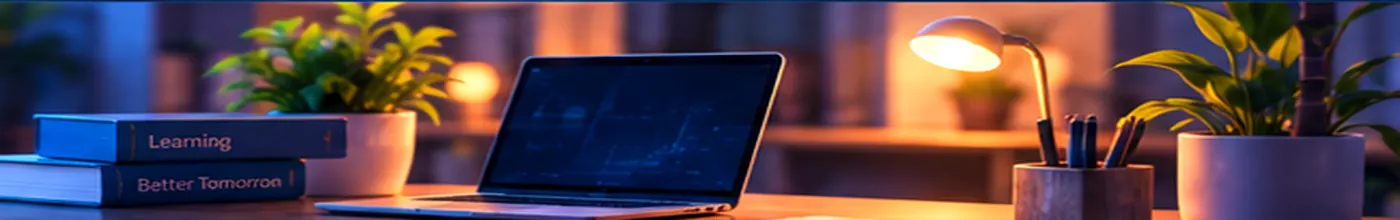
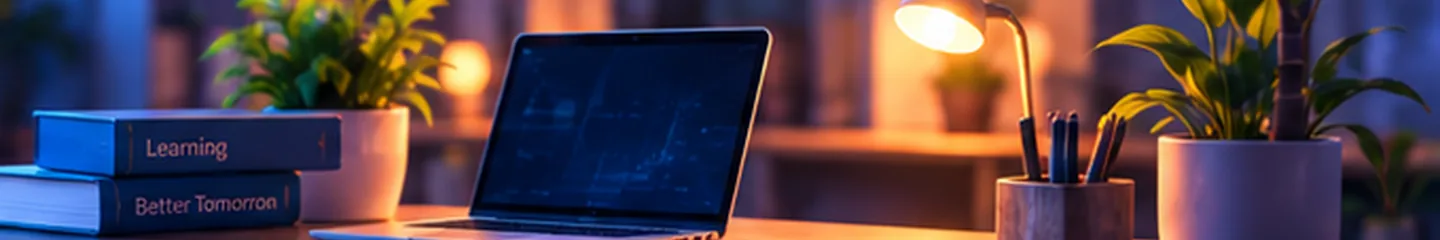
Add files via upload

diff --git a/src/js/screens/classRoom.js b/src/js/screens/classRoom.js
@@ -1181,8 +1181,8 @@ function requestsHtml(data) {
 const CLASS_APPEARANCE_META = Object.freeze({
   ROOM_DESKTOP:{label:'Hero Room Class — Desktop',size:'2048 × 384 px',ratio:'5.33 : 1',maxEdge:2048},
   ROOM_MOBILE:{label:'Hero Room Class — Mobile',size:'1440 × 320 px',ratio:'4.50 : 1',maxEdge:1440},
-  LANDING_DESKTOP:{label:'Hero Landing — Desktop',size:'2048 × 384 px',ratio:'5.33 : 1',maxEdge:2048},
-  LANDING_MOBILE:{label:'Hero Landing — Mobile',size:'1440 × 320 px',ratio:'4.50 : 1',maxEdge:1440}
+  LANDING_DESKTOP:{label:'Hero Utama Landing — Desktop',size:'2048 × 384 px',ratio:'5.33 : 1',maxEdge:2048},
+  LANDING_MOBILE:{label:'Hero Utama Landing — Mobile',size:'1440 × 320 px',ratio:'4.50 : 1',maxEdge:1440}
 });
 function classAppearanceUrl(data,slot,fallback=''){
   return data?.appearance?.active?.[slot]?.url || fallback;
@@ -1211,17 +1211,66 @@ function classAppearanceLibraryHtml(data){
     return `<article class="appearance-library-card ${item.active?'is-active':''}"><img src="${esc(item.url)}" alt="${esc(meta.label)}" loading="lazy"><div><strong>${esc(meta.label)}</strong><small>${esc(item.filename||'Gambar kelas')} · ${item.created_at?esc(new Date(item.created_at).toLocaleDateString('id-ID')):''}</small></div><button type="button" class="btn ${item.active?'btn-primary':'btn-secondary'} small-btn" data-appearance-use="${esc(item.media_id)}" data-appearance-slot="${esc(item.slot)}" ${item.active?'disabled':''}>${item.active?'Aktif':'Gunakan'}</button></article>`;
   }).join('')}</div>`;
 }
+let appearanceOpenCategory='';
+const LANDING_BUILTIN_ASSETS=Object.freeze([
+  {key:'access',label:'Informasi / Akses Kelas',src:'assets/public/hero-access.webp?v=6726',size:'1440 × 240 px',state:'AKTIF DI LANDING'},
+  {key:'links',label:'Link Cepat',src:'assets/public/hero-links.webp?v=6726',size:'1440 × 240 px',state:'AKTIF DI LANDING'},
+  {key:'showcase',label:'Kenal KelasKu',src:'assets/public/hero-showcase.webp?v=6726',size:'1440 × 240 px',state:'AKTIF DI LANDING'},
+  {key:'campus-desktop',label:'Kampus / Lapangan — Desktop',src:'assets/public/campus-landscape-desktop.png?v=6726',size:'2048 × 220 px',state:'ASSET BAWAAN'},
+  {key:'campus-mobile',label:'Kampus / Lapangan — Mobile',src:'assets/public/campus-landscape-mobile.png?v=6726',size:'1200 × 300 px',state:'ASSET BAWAAN'}
+]);
+function appearanceCategorySummary(key,data){
+  if(key==='room'){
+    const count=['ROOM_DESKTOP','ROOM_MOBILE'].filter(slot=>data?.appearance?.active?.[slot]).length;
+    return count?`${count}/2 custom`:'Default KelasKu';
+  }
+  if(key==='landing'){
+    const count=['LANDING_DESKTOP','LANDING_MOBILE'].filter(slot=>data?.appearance?.active?.[slot]).length;
+    return count?`${count}/2 hero custom · 3 section bawaan`:'3 section bawaan aktif';
+  }
+  const total=(data?.appearance?.library||[]).filter(x=>x?.media_id&&x?.url).length;
+  return `${total} gambar tersimpan`;
+}
+function appearanceCategory(key,icon,title,copy,body,data){
+  const open=appearanceOpenCategory===key;
+  return `<section class="appearance-category ${open?'is-open':''}" data-appearance-category="${key}">
+    <button type="button" class="appearance-category-head" data-appearance-category-toggle="${key}" aria-expanded="${open?'true':'false'}">
+      <span class="appearance-category-icon material-symbols-rounded">${icon}</span>
+      <span class="appearance-category-copy"><strong>${esc(title)}</strong><small>${esc(copy)}</small></span>
+      <span class="appearance-category-summary">${esc(appearanceCategorySummary(key,data))}</span>
+      <span class="appearance-category-chevron material-symbols-rounded">expand_more</span>
+    </button>
+    <div class="appearance-category-body" ${open?'':'hidden'}>${body}</div>
+  </section>`;
+}
+function landingBuiltinAssetsHtml(){
+  return `<div class="appearance-builtin-block"><div class="appearance-mini-head"><div><strong>Asset landing yang sudah terpasang</strong><small>Tidak masuk Google Drive dan tidak perlu di-upload ulang. Ini adalah asset statis bawaan frontend yang saat ini dipakai/tersedia di Landing Page.</small></div><span class="soft-chip">BUILT-IN</span></div><div class="appearance-builtin-grid">${LANDING_BUILTIN_ASSETS.map(item=>`<article class="appearance-builtin-card"><img src="${esc(item.src)}" alt="${esc(item.label)}" loading="lazy"><div><strong>${esc(item.label)}</strong><small>${esc(item.size)}</small></div><span class="soft-chip">${esc(item.state)}</span></article>`).join('')}</div></div>`;
+}
 function classAppearanceHtml(data){
-  return `<div class="appearance-settings-v6725">
-    <div class="appearance-guide"><span class="material-symbols-rounded">crop_landscape</span><div><strong>Area aman teks berada di sisi kiri.</strong><small>Gunakan gambar dengan fokus visual di kanan agar judul kelas tetap terbaca di desktop dan mobile. Upload otomatis dikompresi sebelum disimpan ke Google Drive.</small></div></div>
-    <div class="appearance-section-title"><div><strong>Hero Room Class</strong><small>Dipakai di dalam Ruang Kelas.</small></div></div>
-    <div class="appearance-slot-grid">${classAppearanceSlotCard('ROOM_DESKTOP',data)}${classAppearanceSlotCard('ROOM_MOBILE',data)}</div>
-    <div class="appearance-section-title"><div><strong>Hero Landing Page</strong><small>Dipakai pada landing publik kelas.</small></div></div>
-    <div class="appearance-slot-grid">${classAppearanceSlotCard('LANDING_DESKTOP',data)}${classAppearanceSlotCard('LANDING_MOBILE',data)}</div>
-    <div class="appearance-section-title appearance-library-title"><div><strong>Album Tampilan</strong><small>Gambar lama tidak dihapus saat kamu mengganti hero. Pilih kembali kapan saja.</small></div></div>
-    ${classAppearanceLibraryHtml(data)}
+  const roomBody=`<div class="appearance-category-note"><span class="material-symbols-rounded">crop_landscape</span><div><strong>Hero di dalam Ruang Kelas</strong><small>Area aman teks berada di sisi kiri. Desktop dan mobile dipisah supaya framing tetap presisi.</small></div></div><div class="appearance-slot-grid">${classAppearanceSlotCard('ROOM_DESKTOP',data)}${classAppearanceSlotCard('ROOM_MOBILE',data)}</div>`;
+  const landingBody=`${landingBuiltinAssetsHtml()}<div class="appearance-mini-head appearance-mini-head-custom"><div><strong>Hero utama Landing Page (opsional)</strong><small>Slot ini hanya untuk mengganti hero utama paling atas. Tiga background section bawaan di atas tetap tersedia dan tidak perlu di-upload.</small></div></div><div class="appearance-slot-grid">${classAppearanceSlotCard('LANDING_DESKTOP',data)}${classAppearanceSlotCard('LANDING_MOBILE',data)}</div>`;
+  const albumBody=`<div class="appearance-category-note"><span class="material-symbols-rounded">photo_library</span><div><strong>Album upload kelas</strong><small>Gambar hasil upload ke Google Drive tetap disimpan saat hero diganti. Asset bawaan frontend tidak dimasukkan ke album ini.</small></div></div>${classAppearanceLibraryHtml(data)}`;
+  return `<div class="appearance-settings-v6726">
+    <div class="appearance-guide appearance-guide-compact"><span class="material-symbols-rounded">palette</span><div><strong>Tampilan dipisah per kategori.</strong><small>Semua kategori default tertutup. Klik kategori yang ingin diatur agar halaman tetap ringkas di desktop maupun mobile.</small></div></div>
+    <div class="appearance-category-list">
+      ${appearanceCategory('room','school','Hero Room Class','Background ruang kelas · Desktop & Mobile',roomBody,data)}
+      ${appearanceCategory('landing','web_asset','Landing Page','Asset bawaan + hero utama opsional',landingBody,data)}
+      ${appearanceCategory('album','photo_library','Album Tampilan','Riwayat gambar hasil upload kelas',albumBody,data)}
+    </div>
   </div>`;
 }
+function setAppearanceCategory(key){
+  appearanceOpenCategory=appearanceOpenCategory===key?'':key;
+  document.querySelectorAll('[data-appearance-category]').forEach(section=>{
+    const active=section.dataset.appearanceCategory===appearanceOpenCategory;
+    section.classList.toggle('is-open',active);
+    const head=section.querySelector('[data-appearance-category-toggle]');
+    const body=section.querySelector('.appearance-category-body');
+    head?.setAttribute('aria-expanded',active?'true':'false');
+    if(body) body.hidden=!active;
+  });
+}
+
 async function refreshAppearancePane(data){
   const slot=document.getElementById('room-content');
   if(!slot)return;
@@ -1229,6 +1278,7 @@ async function refreshAppearancePane(data){
 }
 async function uploadClassAppearance(slot,input,data){
   const file=input?.files?.[0]; if(!file)return;
+  appearanceOpenCategory=slot.indexOf('ROOM_')===0?'room':'landing';
   const meta=CLASS_APPEARANCE_META[slot]; if(!meta)return;
   const status=document.querySelector(`[data-appearance-status="${slot}"]`);
   input.disabled=true;
@@ -1244,6 +1294,7 @@ async function uploadClassAppearance(slot,input,data){
   }catch(err){if(status){status.className='request-status error';status.textContent=err.message;}toast(err.message);}finally{if(document.body.contains(input))input.disabled=false;}
 }
 async function useClassAppearance(mediaId,slot,data){
+  appearanceOpenCategory=mediaId?'album':(slot.indexOf('ROOM_')===0?'room':'landing');
   try{
     const result=await api('setClassAppearanceMedia',{class_id:state.selectedClassId,slot,media_id:mediaId||''});
     if(currentClassData){currentClassData.appearance=result.appearance||currentClassData.appearance;state.classDetails[state.selectedClassId]=currentClassData;}
@@ -1259,6 +1310,7 @@ function applyRoomHeroAppearance(data){
   if(source)source.srcset=mobile;if(img)img.src=desktop;
 }
 function bindClassAppearanceSettings(data){
+  document.querySelectorAll('[data-appearance-category-toggle]').forEach(btn=>btn.addEventListener('click',()=>setAppearanceCategory(btn.dataset.appearanceCategoryToggle)));
   document.querySelectorAll('[data-appearance-file]').forEach(input=>input.addEventListener('change',()=>uploadClassAppearance(input.dataset.appearanceFile,input,data)));
   document.querySelectorAll('[data-appearance-use]').forEach(btn=>btn.addEventListener('click',()=>useClassAppearance(btn.dataset.appearanceUse,btn.dataset.appearanceSlot,data)));
   document.querySelectorAll('[data-appearance-default]').forEach(btn=>btn.addEventListener('click',()=>useClassAppearance('',btn.dataset.appearanceDefault,data)));

diff --git a/src/css/app.css b/src/css/app.css
@@ -3267,3 +3267,44 @@ html[data-theme="light"] .appearance-slot-card,html[data-theme="light"] .appeara
 }
 
 .appearance-slot-placeholder{width:100%;height:100%;display:flex;align-items:center;justify-content:center;gap:7px;background:linear-gradient(135deg,#082454,#0B132B);color:#8FAAC6}.appearance-slot-placeholder .material-symbols-rounded{font-size:20px;color:var(--tosca)}.appearance-slot-placeholder strong{font-size:9px}
+
+
+/* ============================================================
+   v6.7.26 — Settings > Tampilan compact category accordion
+   Scope: Tampilan Kelas only. All categories default collapsed.
+   ============================================================ */
+.appearance-settings-v6726{display:grid;gap:10px;margin-top:12px}
+.appearance-guide-compact{margin:0!important;padding:10px 12px!important;align-items:center!important}
+.appearance-guide-compact>.material-symbols-rounded{font-size:21px!important}
+.appearance-guide-compact strong{font-size:10.5px!important}.appearance-guide-compact small{font-size:8.8px!important}
+.appearance-category-list{display:grid;gap:8px}
+.appearance-category{border:1px solid rgba(91,160,240,.14);border-radius:15px;background:rgba(6,27,60,.40);overflow:hidden;transition:border-color .16s ease,background .16s ease}
+.appearance-category.is-open{border-color:rgba(34,224,199,.22);background:rgba(7,31,66,.54)}
+.appearance-category-head{appearance:none;width:100%;display:grid;grid-template-columns:38px minmax(0,1fr) auto 28px;align-items:center;gap:10px;min-height:58px;padding:9px 11px;border:0;background:transparent;color:inherit;text-align:left;font:inherit;cursor:pointer}
+.appearance-category-head:hover{background:rgba(34,224,199,.035)}
+.appearance-category-icon{width:38px;height:38px;border-radius:12px;display:grid;place-items:center;background:rgba(34,224,199,.08);border:1px solid rgba(34,224,199,.12);color:var(--tosca);font-size:21px}
+.appearance-category-copy{display:grid;gap:2px;min-width:0}.appearance-category-copy strong{font-size:11.5px;line-height:1.2}.appearance-category-copy small{font-size:8.8px;line-height:1.4;color:var(--muted);white-space:nowrap;overflow:hidden;text-overflow:ellipsis}
+.appearance-category-summary{display:inline-flex;align-items:center;justify-content:center;min-height:24px;padding:4px 8px;border-radius:999px;border:1px solid rgba(91,160,240,.14);background:rgba(9,39,80,.55);font-size:8px;font-weight:800;color:#9db7d0;white-space:nowrap}
+.appearance-category-chevron{font-size:20px;color:#91aac3;transition:transform .16s ease}.appearance-category.is-open .appearance-category-chevron{transform:rotate(180deg);color:var(--tosca)}
+.appearance-category-body{padding:0 11px 12px;border-top:1px solid rgba(91,160,240,.08)}
+.appearance-category-body[hidden]{display:none!important}
+.appearance-category-note{display:flex;gap:9px;align-items:flex-start;margin:10px 0;padding:9px 10px;border-radius:12px;background:rgba(34,224,199,.045);border:1px solid rgba(34,224,199,.09)}
+.appearance-category-note>.material-symbols-rounded{font-size:20px;color:var(--tosca)}.appearance-category-note>div{display:grid;gap:2px}.appearance-category-note strong{font-size:9.8px}.appearance-category-note small{font-size:8.2px;line-height:1.4;color:var(--muted)}
+.appearance-mini-head{display:flex;align-items:flex-start;justify-content:space-between;gap:10px;margin:10px 0 8px}.appearance-mini-head>div{display:grid;gap:2px;min-width:0}.appearance-mini-head strong{font-size:10.5px}.appearance-mini-head small{font-size:8.5px;line-height:1.45;color:var(--muted)}
+.appearance-mini-head-custom{margin-top:14px;padding-top:12px;border-top:1px solid rgba(91,160,240,.09)}
+.appearance-builtin-grid{display:grid;grid-template-columns:repeat(2,minmax(0,1fr));gap:8px}
+.appearance-builtin-card{display:grid;grid-template-columns:112px minmax(0,1fr) auto;align-items:center;gap:9px;padding:7px;border-radius:12px;border:1px solid rgba(91,160,240,.11);background:rgba(5,24,54,.38)}
+.appearance-builtin-card img{width:112px;height:48px;border-radius:8px;object-fit:cover;display:block}.appearance-builtin-card>div{display:grid;gap:2px;min-width:0}.appearance-builtin-card strong{font-size:9.3px;white-space:nowrap;overflow:hidden;text-overflow:ellipsis}.appearance-builtin-card small{font-size:7.8px;color:var(--muted)}.appearance-builtin-card>.soft-chip{font-size:7px;padding:3px 6px}
+html[data-theme="light"] .appearance-category,html[data-theme="light"] .appearance-builtin-card{background:#fff;border-color:#dce8f3}
+@media(max-width:720px){
+  .appearance-settings-v6726{gap:8px;margin-top:9px}
+  .appearance-category-head{grid-template-columns:34px minmax(0,1fr) 24px;min-height:52px;padding:8px 9px;gap:8px}
+  .appearance-category-icon{width:34px;height:34px;border-radius:11px;font-size:19px}
+  .appearance-category-copy strong{font-size:10.8px}.appearance-category-copy small{font-size:8.1px}
+  .appearance-category-summary{grid-column:2;justify-self:start;margin-top:-2px;min-height:20px;padding:3px 7px;font-size:7.3px}
+  .appearance-category-chevron{grid-column:3;grid-row:1/3;align-self:center}
+  .appearance-category-body{padding:0 9px 10px}
+  .appearance-builtin-grid{grid-template-columns:1fr}
+  .appearance-builtin-card{grid-template-columns:92px minmax(0,1fr) auto}.appearance-builtin-card img{width:92px;height:42px}
+  .appearance-slot-grid{grid-template-columns:1fr!important}
+}

diff --git a/links.html b/links.html
@@ -25,13 +25,13 @@
   <meta property="og:image" content="https://klasku.my.id/assets/brand/app-icon.png">
   <meta name="twitter:card" content="summary_large_image">
   <link rel="canonical" href="https://klasku.my.id/links.html">
-  <link rel="manifest" href="manifest.json?v=6725">
-  <link rel="icon" type="image/svg+xml" href="assets/icons/favicon.svg?v=6725">
+  <link rel="manifest" href="manifest.json?v=6726">
+  <link rel="icon" type="image/svg+xml" href="assets/icons/favicon.svg?v=6726">
   <link rel="preconnect" href="https://fonts.googleapis.com">
   <link rel="preconnect" href="https://fonts.gstatic.com" crossorigin>
   <link href="https://fonts.googleapis.com/css2?family=Poppins:wght@400;500;600;700;800&display=swap" rel="stylesheet">
   <link href="https://fonts.googleapis.com/css2?family=Material+Symbols+Rounded:opsz,wght,FILL,GRAD@20..48,300,0,0" rel="stylesheet">
-  <link rel="stylesheet" href="src/css/public-links.css?v=6725">
+  <link rel="stylesheet" href="src/css/public-links.css?v=6726">
   <title>Link Kelas — KelasKu</title>
 </head>
 <body>
@@ -39,7 +39,7 @@
     <section class="public-links-shell">
       <header class="public-brandbar">
         <a class="public-brand" href="./" aria-label="KelasKu">
-          <img class="public-brand-lockup" src="assets/brand/logo-lockup-latest.svg?v=6725" alt="KelasKu — Kelas Lebih Mudah">
+          <img class="public-brand-lockup" src="assets/brand/logo-lockup-latest.svg?v=6726" alt="KelasKu — Kelas Lebih Mudah">
         </a>
         <span class="public-badge">LINK KELAS</span>
       </header>
@@ -50,7 +50,7 @@
     </section>
   </main>
   <div id="toast-root" class="public-toast-root"></div>
-  <script src="config.js?v=6725"></script>
-  <script type="module" src="src/js/screens/publicLinks.js?v=6725"></script>
+  <script src="config.js?v=6726"></script>
+  <script type="module" src="src/js/screens/publicLinks.js?v=6726"></script>
 </body>
 </html>

diff --git a/index.html b/index.html
@@ -29,16 +29,16 @@
   </script>
   <base href="/" />
 
-  <link rel="manifest" href="manifest.json?v=6725" />
-  <link rel="icon" type="image/svg+xml" href="assets/icons/favicon.svg?v=6725" />
-  <link rel="icon" type="image/png" sizes="32x32" href="assets/icons/favicon-32.png?v=6725" />
-  <link rel="icon" type="image/png" sizes="64x64" href="assets/icons/favicon-64.png?v=6725" />
+  <link rel="manifest" href="manifest.json?v=6726" />
+  <link rel="icon" type="image/svg+xml" href="assets/icons/favicon.svg?v=6726" />
+  <link rel="icon" type="image/png" sizes="32x32" href="assets/icons/favicon-32.png?v=6726" />
+  <link rel="icon" type="image/png" sizes="64x64" href="assets/icons/favicon-64.png?v=6726" />
   <link rel="apple-touch-icon" href="assets/icons/icon-192.png" />
   <link rel="preconnect" href="https://fonts.googleapis.com" />
   <link rel="preconnect" href="https://fonts.gstatic.com" crossorigin />
   <link href="https://fonts.googleapis.com/css2?family=Poppins:ital,wght@0,400;0,500;0,600;0,700;0,800;1,700;1,800&display=swap" rel="stylesheet" />
   <link href="https://fonts.googleapis.com/css2?family=Material+Symbols+Rounded:opsz,wght,FILL,GRAD@20..48,300,0,0" rel="stylesheet" />
-  <link rel="stylesheet" href="src/css/app.css?v=6725" />
+  <link rel="stylesheet" href="src/css/app.css?v=6726" />
 
   <title>KelasKu — Belajar Bersama Lebih Mudah</title>
 </head>
@@ -82,7 +82,7 @@
   <div id="app" class="app-root" aria-live="polite"></div>
   <div id="toast-root" class="toast-root"></div>
 
-  <script src="config.js?v=6725"></script>
-  <script type="module" src="src/js/app.js?v=6725"></script>
+  <script src="config.js?v=6726"></script>
+  <script type="module" src="src/js/app.js?v=6726"></script>
 </body>
 </html>

diff --git a/src/css/public-links.css b/src/css/public-links.css
@@ -159,9 +159,9 @@ a{color:inherit}.material-symbols-rounded{font-variation-settings:'wght' 300,'FI
 .public-section-block>.public-image-head{margin:-16px -16px 10px}
 .public-showcase>.public-image-head{margin:-17px -17px 10px}
 .public-image-head::before{content:"";position:absolute;inset:0;z-index:-1;background:linear-gradient(90deg,rgba(4,18,44,.96) 0%,rgba(5,24,52,.86) 42%,rgba(5,24,52,.36) 70%,rgba(5,24,52,.12) 100%)}
-.public-image-head-access{background-image:url('/assets/public/hero-access.webp?v=676')}
-.public-image-head-links{background-image:url('/assets/public/hero-links.webp?v=676')}
-.public-image-head-showcase{background-image:url('/assets/public/hero-showcase.webp?v=676')}
+.public-image-head-access{background-image:url('/assets/public/hero-access.webp?v=6726')}
+.public-image-head-links{background-image:url('/assets/public/hero-links.webp?v=6726')}
+.public-image-head-showcase{background-image:url('/assets/public/hero-showcase.webp?v=6726')}
 .public-image-head-copy{position:relative;z-index:1;display:grid;gap:2px;min-width:0;max-width:min(620px,66%)}
 .public-image-head .public-kicker{font-size:10px!important;letter-spacing:.13em;text-shadow:0 1px 10px rgba(0,0,0,.35)}
 .public-image-head h2{margin:1px 0 0;font-size:clamp(18px,2.4vw,23px);line-height:1.18;letter-spacing:-.025em;color:#fff;text-shadow:0 2px 14px rgba(0,0,0,.34)}

diff --git a/src/js/app.js b/src/js/app.js
@@ -22,7 +22,7 @@ import { renderDashboard } from './screens/dashboard.js';
 import { renderAccount } from './screens/account.js';
 import { renderSettings } from './screens/settings.js';
 import { renderClasses, renderJoinLink, prefetchMyClasses } from './screens/classes.js?v=6725';
-import { renderClassRoom } from './screens/classRoom.js?v=6725';
+import { renderClassRoom } from './screens/classRoom.js?v=6726';
 import { renderAdmin, renderAdminUsers, renderAdminClasses, renderAdminSystem, renderAdminAudit } from './screens/admin.js';
 import { renderSchedule, renderTasks, renderMaterials, renderAnnouncements, renderAttendance, loadAcademicHub } from './screens/academic.js';
 import { renderAppInfo } from './screens/appInfo.js';

diff --git a/service-worker.js b/service-worker.js
@@ -2,7 +2,7 @@
  * KelasKu Service Worker
  * WAJIB naikkan CACHE_NAME setiap release frontend.
  */
-const CACHE_NAME = 'kelasku-v6.7.25-b325-class-appearance';
+const CACHE_NAME = 'kelasku-v6.7.26-b326-appearance-categories';
 const APP_SHELL = [
   '/',
   '/index.html',
@@ -51,6 +51,8 @@ const APP_SHELL = [
   '/assets/public/hero-access.webp',
   '/assets/public/hero-links.webp',
   '/assets/public/hero-showcase.webp',
+  '/assets/public/campus-landscape-desktop.png',
+  '/assets/public/campus-landscape-mobile.png',
   '/assets/classroom/hero-room-default-desktop.jpg',
   '/assets/classroom/hero-room-default-mobile.jpg',
   '/assets/icons/favicon.svg',

diff --git a/config.js b/config.js
@@ -6,9 +6,9 @@
  */
 window.KELASKU_CONFIG = Object.freeze({
   APP_NAME: 'KelasKu',
-  APP_VERSION: '6.7.25',
-  BUILD: '20260929.325',
-  RELEASED_AT_WIB: '29 Sep 2026, 09:55 WIB',
+  APP_VERSION: '6.7.26',
+  BUILD: '20260929.326',
+  RELEASED_AT_WIB: '29 Sep 2026, 10:58 WIB',
 
   API_URL: 'https://script.google.com/macros/s/AKfycbyIsv19DU3M-zWu2HCvDvRQgYbstNy1wHF-8ehaMh0OnQ8ousYswuGmsz23S_QD2FRH/exec',
 
